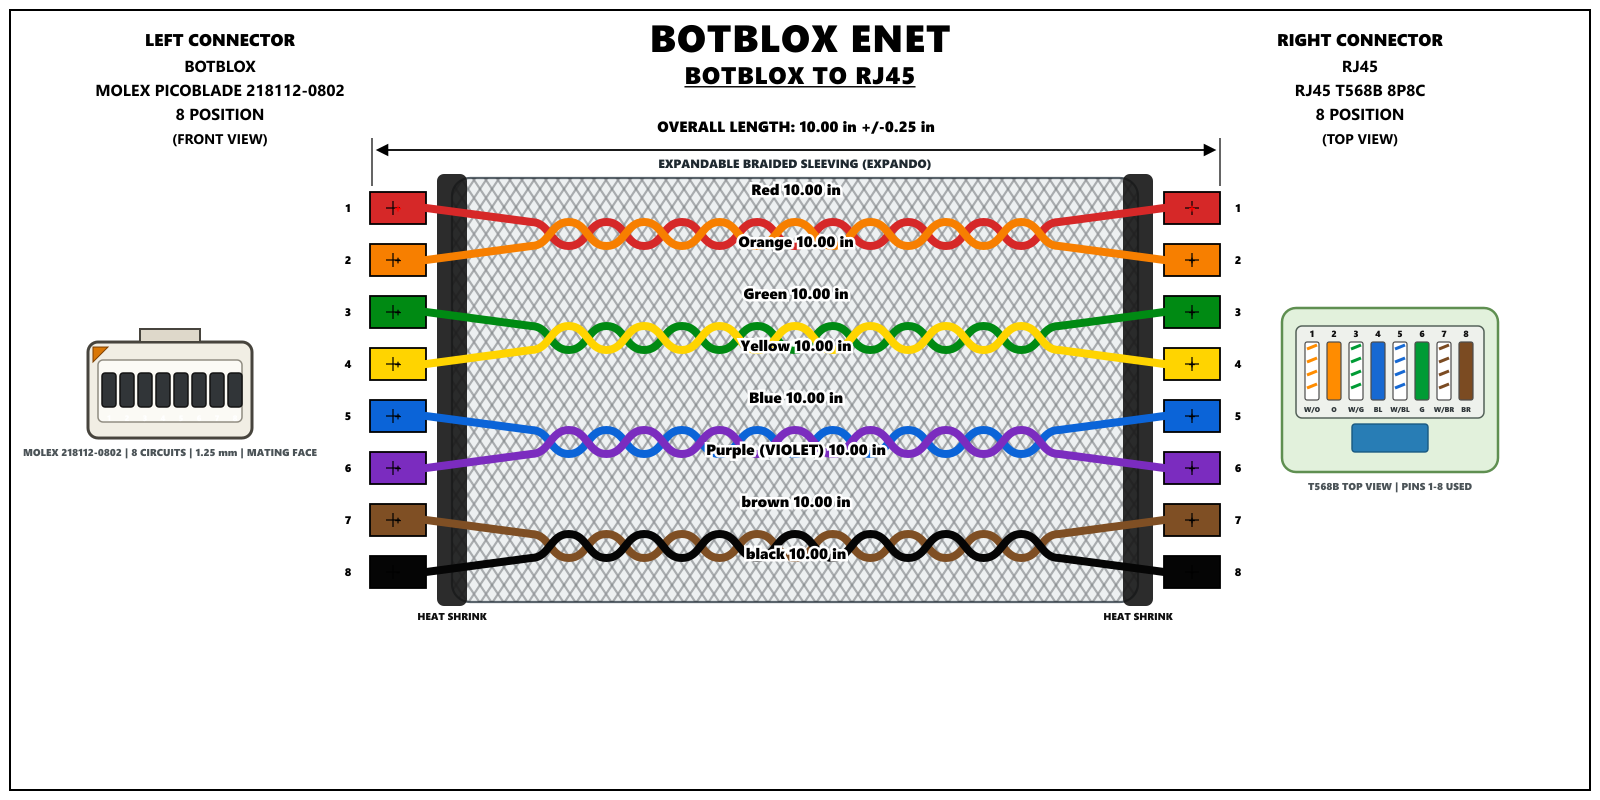
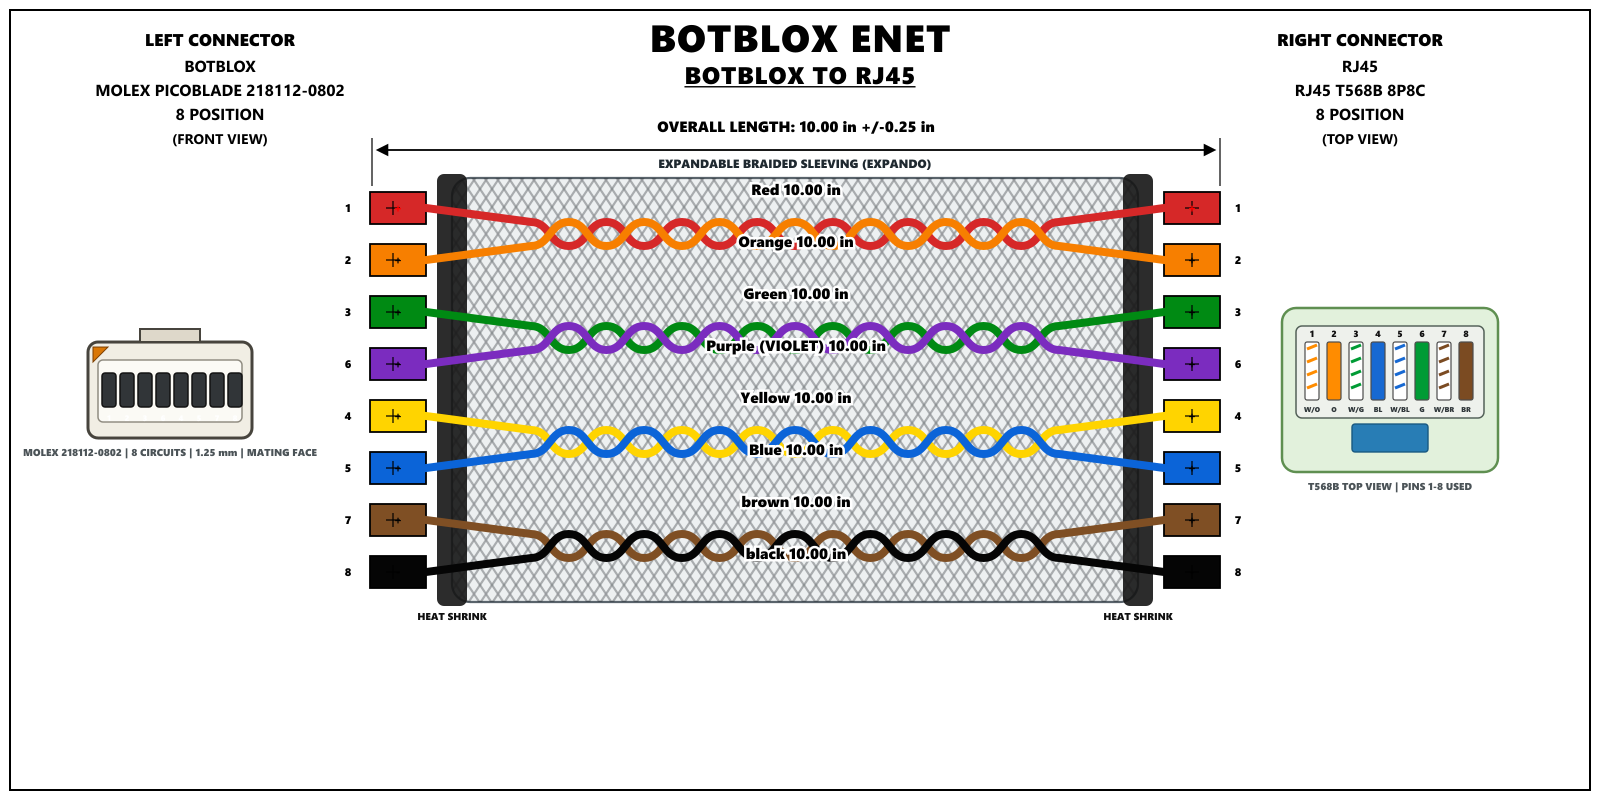
Keep submitted wire pairs on adjacent lanes

Changed region(s): [[0.2188, 0.4375, 0.7812, 0.625], [0.2188, 0.4062, 0.6562, 0.4688]]

diff --git a/app.js b/app.js
@@ -1,6 +1,6 @@
 "use strict";
 
-const APP_VERSION = "2.1.5";
+const APP_VERSION = "2.1.6";
 const HarnessCore = globalThis.DigiWireCore;
 if (!HarnessCore) {
   throw new Error("DIGIWIRE harness-core.js must load before app.js.");
@@ -2711,6 +2711,34 @@ function hasSubmittedT568bPairMismatch(rows) {
     return firstId && firstId === secondId ? firstId : "";
   });
   return pairIds.some((id) => !id) || new Set(pairIds).size !== expectedPairs.length;
+}
+
+function orderKiCadRowsBySubmittedPairs(rows) {
+  const pairMembers = new Map();
+  rows.forEach((row) => {
+    const pairId = normalizeText(row.twistedPairId);
+    if (!pairId) {
+      return;
+    }
+    const members = pairMembers.get(pairId) || [];
+    members.push(row);
+    pairMembers.set(pairId, members);
+  });
+  const emittedPairs = new Set();
+  const ordered = [];
+  rows.forEach((row) => {
+    const pairId = normalizeText(row.twistedPairId);
+    const members = pairMembers.get(pairId);
+    if (pairId && members?.length === 2) {
+      if (!emittedPairs.has(pairId)) {
+        ordered.push(...members);
+        emittedPairs.add(pairId);
+      }
+      return;
+    }
+    ordered.push(row);
+  });
+  return ordered;
 }
 
 function buildBraidPatternDefs() {
@@ -5492,9 +5520,10 @@ function buildKiCadHarnessModel(sheet) {
   const description = isMultiGroup
     ? `${shortListLabel(groupNames, 4)} TO ${rightName}`.replace(/\s+/g, " ").trim()
     : `${leftName} TO ${rightName}`.replace(/\s+/g, " ").trim();
-  const wireStartY = isMultiGroup ? 205 : rows.length > 12 ? 180 : 208;
-  const wireGap = rows.length > 12 ? 38 : rows.length > 8 ? 44 : rows.length <= 4 ? 66 : 52;
-  const wires = rows.map((row, index) => {
+  const routingRows = isMultiGroup ? rows : orderKiCadRowsBySubmittedPairs(rows);
+  const wireStartY = isMultiGroup ? 205 : routingRows.length > 12 ? 180 : 208;
+  const wireGap = routingRows.length > 12 ? 38 : routingRows.length > 8 ? 44 : routingRows.length <= 4 ? 66 : 52;
+  const wires = routingRows.map((row, index) => {
     const leftWireName = sheetRowLeftWireName(row, `WIRE ${index + 1}`);
     const rightWireName = sheetRowRightWireName(row, `WIRE ${index + 1}`);
     const colorSource = kiCadWireColorSource(row);

diff --git a/index.html b/index.html
@@ -3,8 +3,8 @@
   <head>
     <meta charset="utf-8">
     <meta name="viewport" content="width=device-width, initial-scale=1">
-    <title>DIGIWIRE v2.1.5</title>
-    <link rel="stylesheet" href="styles.css?v=2.1.5">
+    <title>DIGIWIRE v2.1.6</title>
+    <link rel="stylesheet" href="styles.css?v=2.1.6">
   </head>
   <body>
     <main class="app-shell">
@@ -135,7 +135,7 @@
 
     <canvas id="workCanvas" hidden></canvas>
     <script src="vendor/tesseract/tesseract.min.js" defer></script>
-    <script src="harness-core.js?v=2.1.5" defer></script>
-    <script src="app.js?v=2.1.5" defer></script>
+    <script src="harness-core.js?v=2.1.6" defer></script>
+    <script src="app.js?v=2.1.6" defer></script>
   </body>
 </html>

diff --git a/desktop/WiringHarnessDesigner.cs b/desktop/WiringHarnessDesigner.cs
@@ -8,8 +8,8 @@ using System.Windows.Forms;
 [assembly: AssemblyDescription("Offline sketch-to-schematic wiring harness reader")]
 [assembly: AssemblyCompany("DIGIWIRE")]
 [assembly: AssemblyProduct("DIGIWIRE")]
-[assembly: AssemblyVersion("2.1.5.0")]
-[assembly: AssemblyFileVersion("2.1.5.0")]
+[assembly: AssemblyVersion("2.1.6.0")]
+[assembly: AssemblyFileVersion("2.1.6.0")]
 
 internal static class WiringHarnessDesignerProgram
 {

diff --git a/README.md b/README.md
@@ -4,9 +4,9 @@ A streamlined Excel-to-Draw.io wiring harness converter and editor.
 
 **Live app:** https://darnell-ai.github.io/wiring-harness-designer/
 
-Current release: **v2.1.5**
+Current release: **v2.1.6**
 
-DigiWire 2.1.5 treats the physical `Color` and `Twisted Pair ID` columns as authoritative, keeps left/right wire names as termination labels, and warns instead of silently rewriting an Ethernet mapping that does not follow T568B pair positions.
+DigiWire 2.1.6 keeps every valid submitted twisted pair on adjacent visual lanes, even when its two rows or pin numbers are separated in the spreadsheet. Physical colors, endpoint names, pair IDs, and pin assignments remain unchanged.
 
 Connector housings are resolved from the left/right housing part-number columns before descriptive housing text. Known Molex and TE part-number families select their matching connector-face profile. An unknown part number is shown as an explicit unverified profile with an exact DigiKey lookup link instead of being guessed from a label such as `3 POS FRONT LOCK`.
 
@@ -63,6 +63,7 @@ DIGIWIRE draws valid pairs as crossing, intertwined conductors in both the previ
 - Uses the `Color` column for the rendered conductor; a recognized right-side RJ45 wire name is only a fallback when the physical color is blank.
 - Draws complete eight-pin color mappings as a standard T568B 8P8C face and omits redundant `TWISTED PAIR` text while preserving the intertwined geometry.
 - Preserves submitted twisted-pair IDs exactly and warns when a stated T568B termination does not pair pins 1-2, 3-6, 4-5, and 7-8.
+- Places the two members of each valid submitted pair on adjacent drawing lanes, eliminating long diagonal pair crossovers without renumbering connector pins.
 - Resolves `900-2181120802-ND` as the eight-circuit, single-row Molex PicoBlade 218112-0802 pigtail and `A116128-ND` as TE 2213145-1 Pivot Power RJ45, with part-specific connector faces and compatibility diagnostics.
 - Draws Subcon/PBOF connector names as circular mating faces and identifies unused pin positions separately from the active conductors.
 - Draws 13-pin PBOF mating faces in the physical 3-4-4-2 cavity arrangement and ignores out-of-housing DNP rows above the declared 13-position capacity.

diff --git a/CHANGELOG.md b/CHANGELOG.md
@@ -1,5 +1,12 @@
 # Changelog
 
+## v2.1.6 - 2026-08-26
+
+- Grouped each valid submitted twisted pair onto adjacent visual lanes, even when pair members are separated in spreadsheet row or pin order.
+- Preserved the original physical colors, pin numbers, left/right wire names, and pair IDs while changing only the drawing order.
+- Updated the BOTBLOX fixture to the corrected TP2 pins 3/6 and TP3 pins 4/5 mapping.
+- Added regression coverage proving every BOTBLOX pair occupies adjacent lanes and the T568B pair warning clears for the corrected data.
+
 ## v2.1.5 - 2026-08-26
 
 - Made the physical `Color` column authoritative for conductor rendering, with right-side RJ45 wire names used only when Color is blank.
